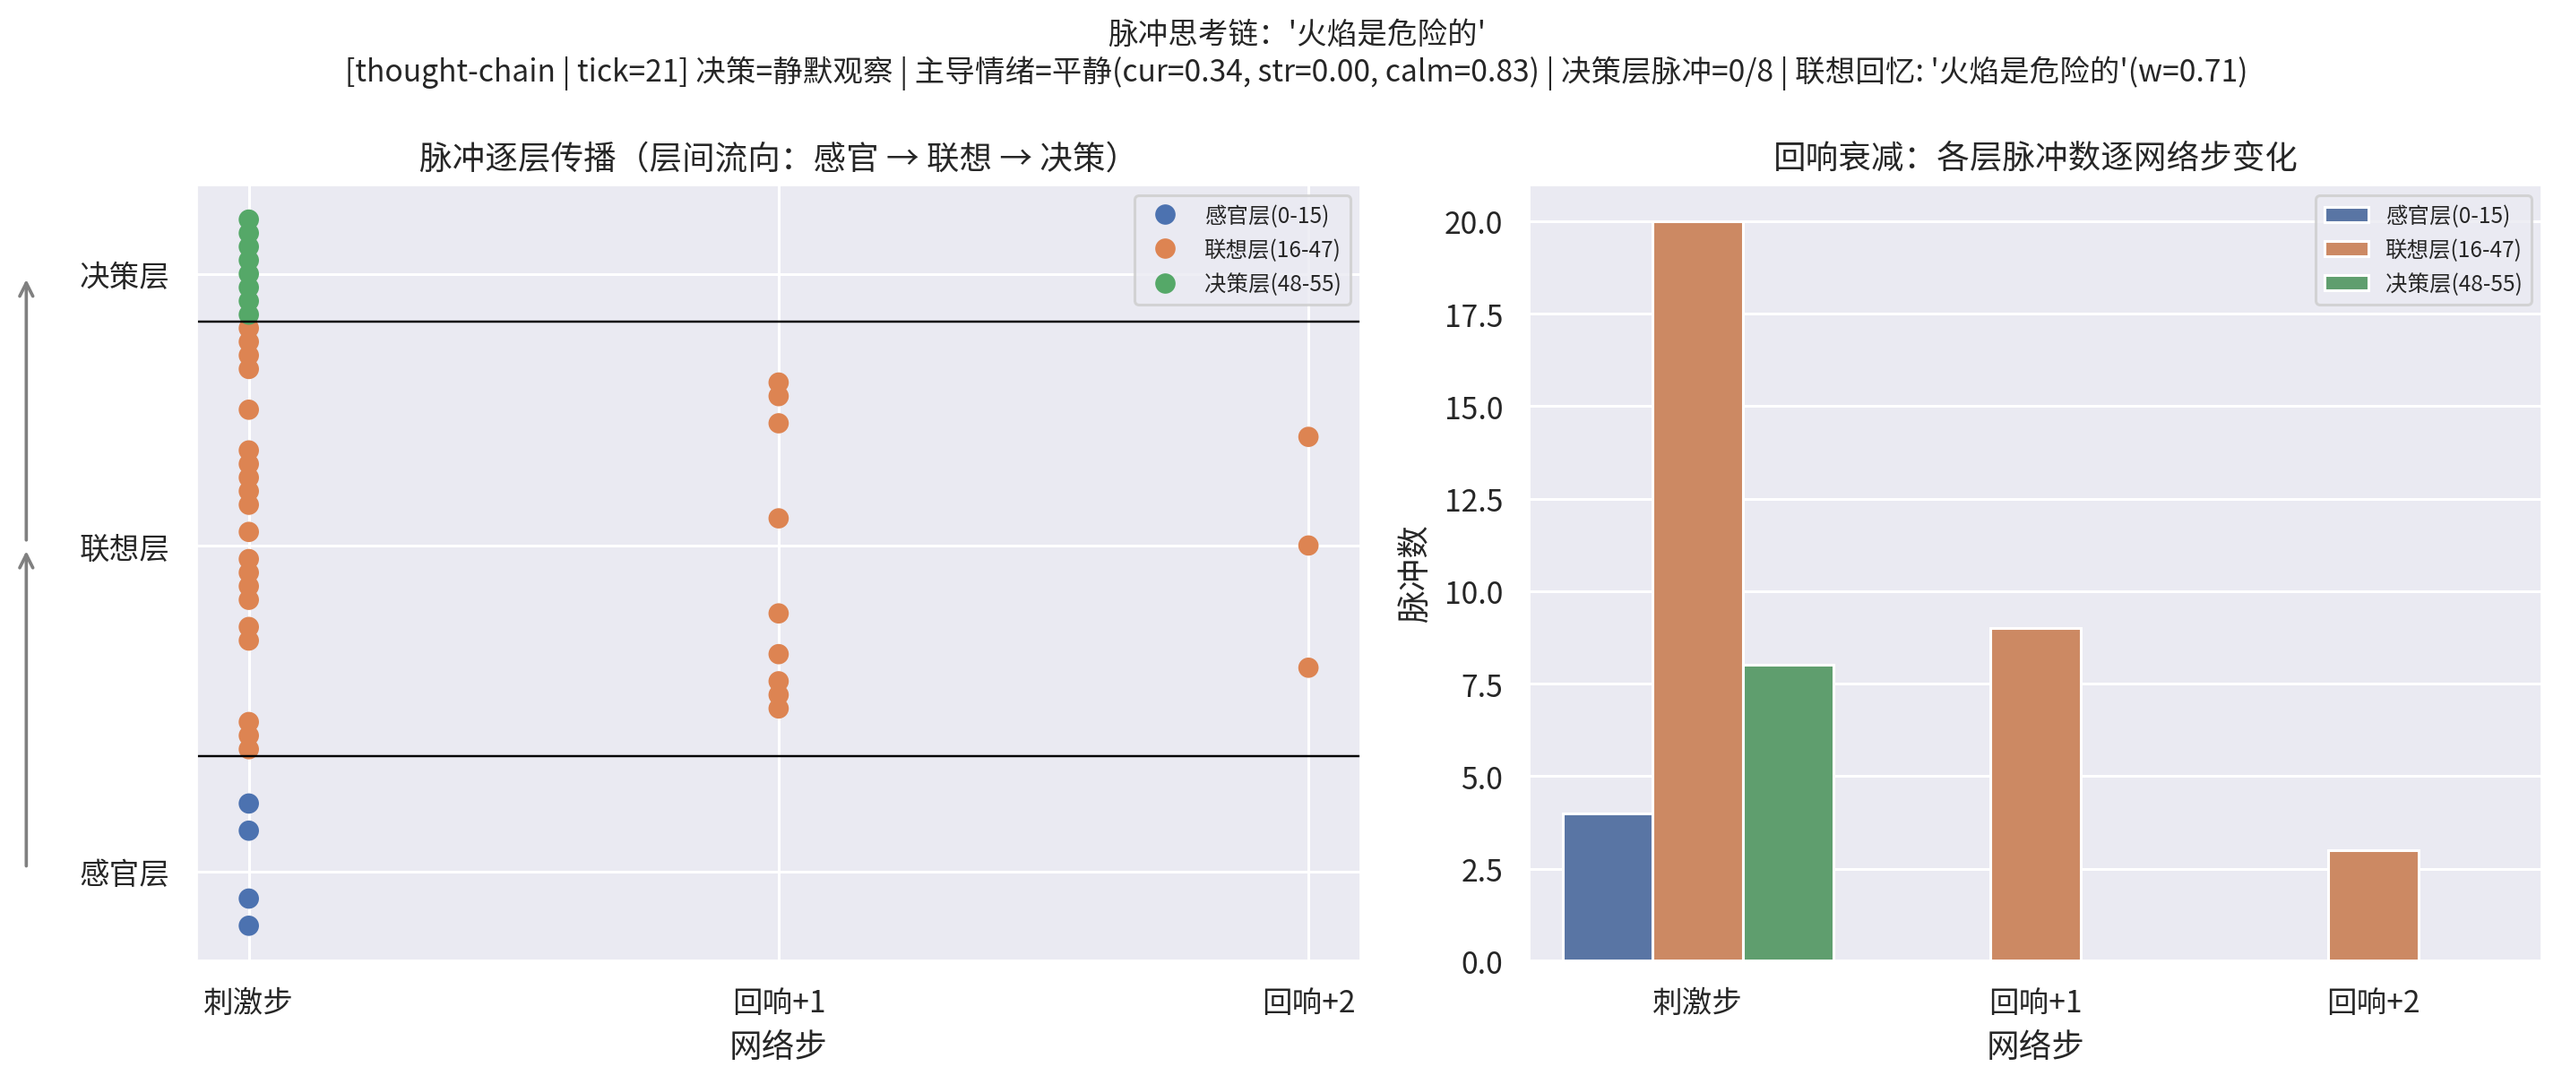
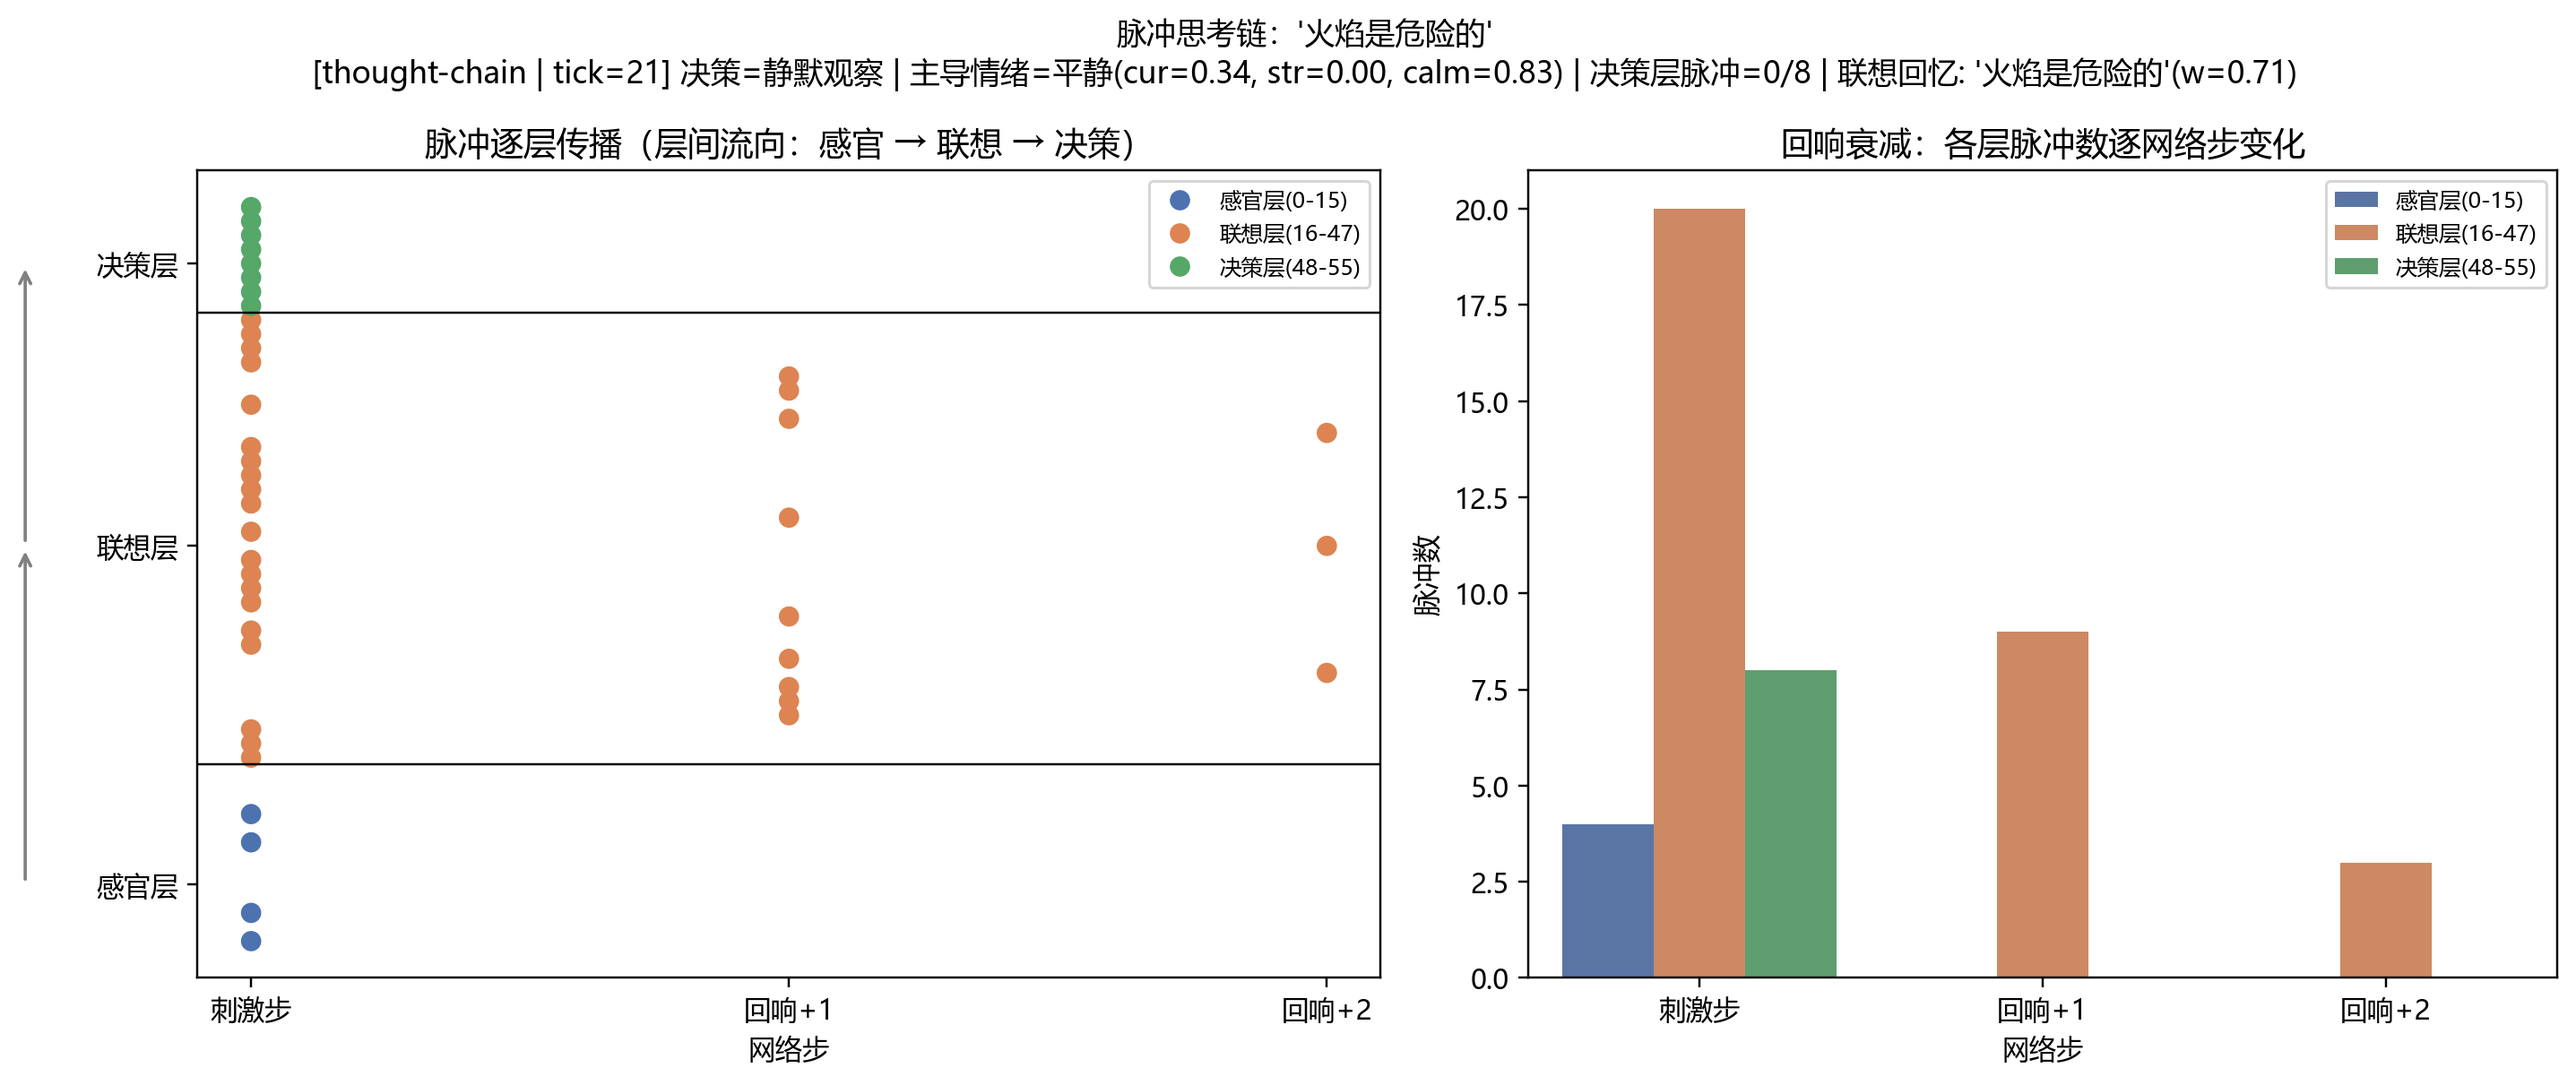
大脑活动监视器新增思考过程显示：追踪数据携带逐 tick 脉冲思考链，Widget 随播放帧同步高亮当前思考步骤

diff --git a/brain_activity_trace.py b/brain_activity_trace.py
@@ -58,6 +58,26 @@ for s in STIMULI:
 brain.free_run(4)  # 尾声：观察回响衰减
 brain._network_step = orig_step
 
+# 为每个 tick 生成可读的脉冲思考链（与 thought_chain 同构），
+# 供可视化面板随播放进度逐行高亮"大脑在想什么"
+NSTEPS = 1 + brain.settle_ticks   # 每 tick 的网络步数（刺激步 + 回响步）
+for o in outputs:
+    f0 = o["frame"]
+    lines = [f"1. 感官编码：{o['stimulus']!r} → 16 维输入电流"]
+    for i in range(NSTEPS):
+        fr = frames[f0 + i]
+        ns, na, nd = (len(x) for x in fr["spk"])
+        if i == 0:
+            lines.append(f"2. 刺激步：感官层 {ns}/16 → 联想层 {na}/32"
+                         f"（突触汇集） → 决策层 {nd}/8")
+        else:
+            silent = "（回声衰减，趋于静息）" if not (ns or na or nd) else ""
+            lines.append(f"{i + 2}. 回响+{i}：感官 {ns} / 联想 {na} / "
+                         f"决策 {nd}{silent}")
+    lines.append(f"{NSTEPS + 2}. 决策输出：{o['output']}")
+    o["chain"] = lines
+    o["n_frames"] = NSTEPS
+
 # 邻接表（突触连接）：前神经元 -> [后神经元]
 def adj(out_dict):
     return {str(k): v for k, v in sorted(out_dict.items())}
